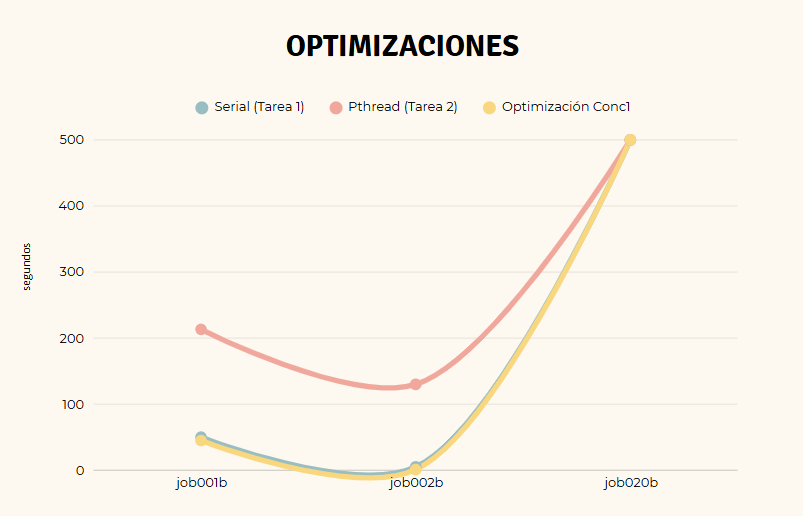
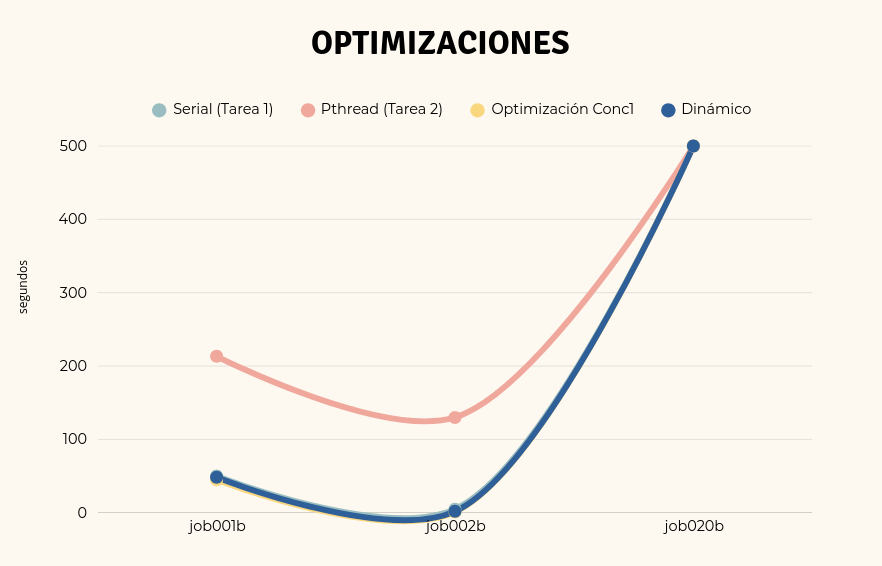
resultados cluster, grafico, analisis

diff --git a/homeworks/omp_mpi/report/Reporte.md b/homeworks/omp_mpi/report/Reporte.md
@@ -127,7 +127,47 @@ En la siguiente tabla, la parte relevante es el lado derecho.
 Se puede observar que la cantidad de hilos no afecta demasiado al tiempo de ejecución y lo anterior puede ser debido a que la eficiencia no está cerca de 1. Sin embargo, no es 0 tampoco, por lo que con más hilos sí se ejecuta en menos tiempo. El caso más interesante hubiera sido job020b, sin embargo, por el timeout del clúster, no se logró recolectar datos.
 
 ### Comparación de rendimiento distribuido
+En el job020b, tanto pthread_dinamico, omp, y mpi dieron timeout en el cluster, por lo que todas duran más que 5400 segundos. Se usan 7 nodos a diferencia de 4 nodos para las comparaciones de MPI por directriz del profesor. Se usan todos los nodos del clúster.
+
+#### job001b
+| Etiqueta | Duración (s) | _Speedup_ | Núcleos/Hilos | Eficiencia |
+| - | - | - | - | - |
+| Pthreads | 48.299692553 | 1 | 4 | 1 |
+| OMP | 47.364956000 | 1.0197 | 4 | 0.2549 |
+| MPI | 26.210253366 | 1.8416 | 7 | 0.4604 |
+
+#### job002b
+| Etiqueta | Duración (s) | _Speedup_ | Núcleos/Hilos | Eficiencia |
+| - | - | - | - | - |
+| Pthreads | 1.992774530 | 1 | 4 | 1 | 
+| OMP | 48.005787023 | 0.0415 | 4 | 0.0104 |
+| MPI | 5.402552686 | 0.3688 | 7 | 0.0922 |
+
+#### job003b
+| Etiqueta | Duración (s) | _Speedup_ | Núcleos/Hilos | Eficiencia |
+| - | - | - | - | - |
+| Pthreads | 49.579922405 | 1 | 4 | 1 |
+| OMP | 47.645413625 | 1.0406 | 4 | 0.2601 |
+| MPI | 21.365685092 | 2.3201 | 7 | 0.5800 |
+
+### Gráfico combinado
+![alt text](../img/grafico_distribucion.png)
 
 #### OMP - Pthreads
+En job001b y job003b, OMP logra apenas superar ligeramente el rendimiento de Pthreads, con speedups de 1.0197 y 1.0406 respectivamente. Sin embargo, las eficiencias de 0.2549 y 0.2601 indican un uso bajo de los 4 hilos disponibles. Esto sugiere que la carga de trabajo paralelizable dentro de cada plate no es lo suficientemente grande para justificar la sobrecarga de sincronización que introduce OpenMP.
+
+En el caso de job002b, el rendimiento de OMP es claramente peor que el de Pthreads. El speedup cae a 0.0415, con una eficiencia bajísima de apenas 0.0104. Esto indica que el problema es demasiado pequeño para beneficiarse de la paralelización con OpenMP, y que los costos de crear hilos, sincronizar y gestionar la memoria superan los beneficios de dividir la carga.
+
+En resumen, OMP sólo resulta competitivo frente a Pthreads en los problemas de mayor tamaño, pero incluso ahí, su ganancia es marginal.
+
 #### MPI - Pthreads
+Al comparar MPI contra Pthreads, se observa un mejor aprovechamiento de la paralelización en los problemas más grandes. En job001b y job003b, MPI obtiene speedups de 1.8416 y 2.3201 respectivamente, y eficiencias de 0.4604 y 0.5800 sobre los 7 nodos utilizados. Esto indica que el modelo de distribución de líneas de trabajo permite un reparto más balanceado de la carga.
+
+En job002b, sin embargo, el comportamiento de MPI también cae. El speedup es de apenas 0.3688, con eficiencia de 0.0922. Esto es coherente con lo observado en OMP; el problema es demasiado pequeño para justificar el uso de un modelo distribuido, donde el costo de la comunicación y el reparto de trabajo dominan sobre el cómputo real.
+
+En general, MPI comienza a ser más rápido que Pthreads cuando el tamaño del problema crece y la carga de trabajo puede ser distribuida más efectivamente entre nodos.
+
 #### OMP - MPI
+En job001b y job003b, MPI supera a OMP de forma consistente. Las eficiencias también son mejores en MPI, incluso usando más nodos. Esto sugiere que, mientras OMP está limitado por la cantidad de cores dentro de un solo nodo y su overhead interno de sincronización, MPI escala mejor al poder aprovechar múltiples nodos, incluso con la duración adicional de la comunicación entre nodos.
+
+En conclusión, para problemas pequeños, ningún modelo paraleliza bien. Sin embargo, para problemas medianos y grandes, MPI es más rápido que OMP, especialmente cuando se aprovecha el clúster completo.
